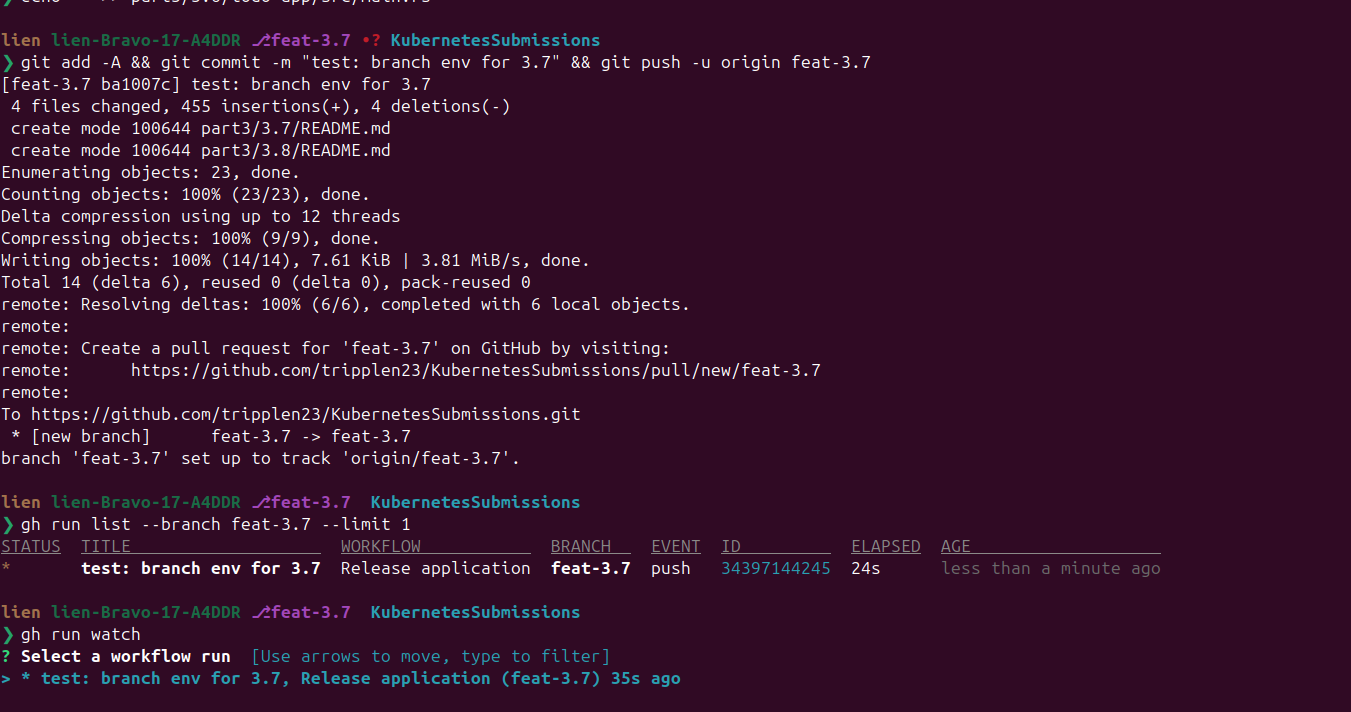
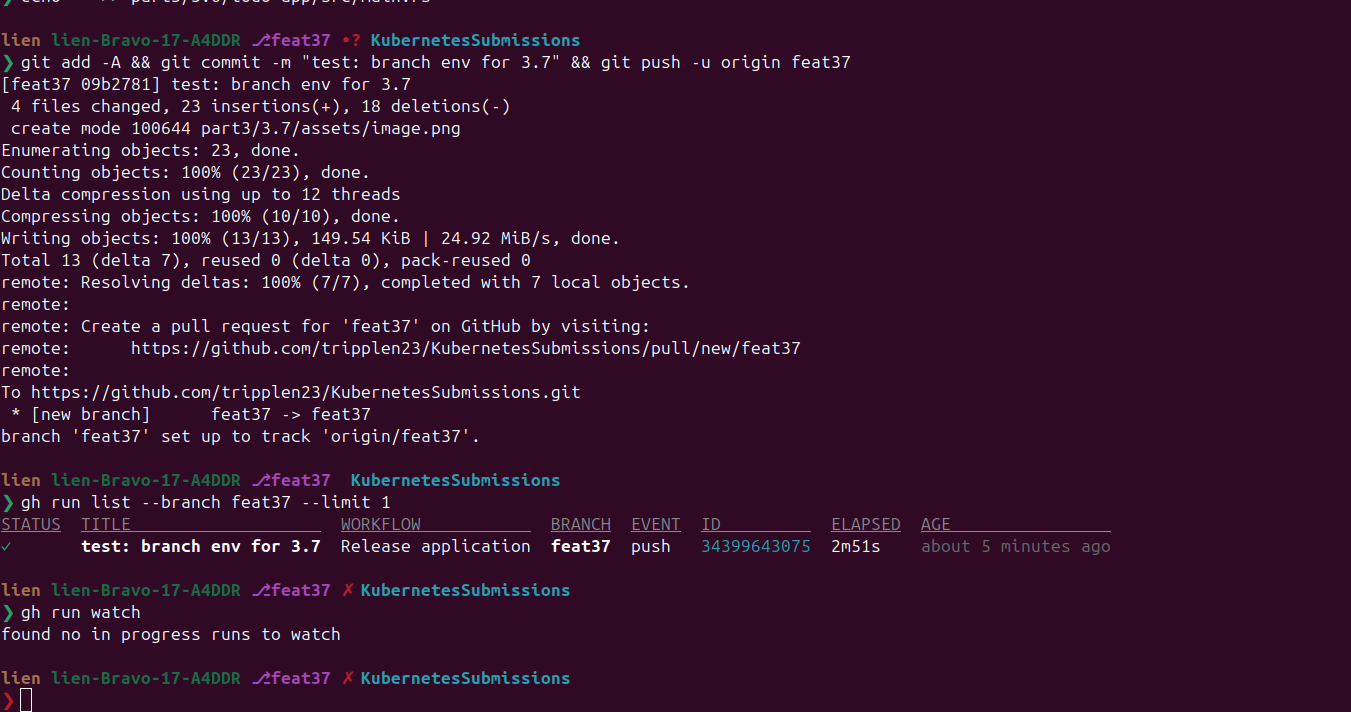
docs(3.7): final README trim, screenshot + root README 3.7 row

Changed region(s): [[0.0, 0.0927, 0.8705, 1.0], [0.2176, 0.0309, 0.4352, 0.0618], [0.6218, 0.0618, 0.6528, 0.0927]]

diff --git a/README.md b/README.md
@@ -47,7 +47,8 @@ Submissions for the University of Helsinki's **DevOps with Kubernetes** MOOC
 | [`part3/3.3/`](./part3/3.3) | 3.3 — To the Gateway (GKE) | "Log output" + "Ping-pong" via Gateway (Gateway + HTTPRoute, ClusterIP services) | `gcr.io/dwk-gke-506208/ping-pong:3.3`, `gcr.io/dwk-gke-506208/log-output:3.3` | [tag `3.3`](https://github.com/tripplen23/KubernetesSubmissions/tree/3.3/part3/3.3) |
 | [`part3/3.4/`](./part3/3.4) | 3.4 — Rewritten routing (GKE Gateway API) | "Log output" + "Ping-pong" via rewritten Gateway routing | `gcr.io/dwk-gke-506208/ping-pong:3.4`, `gcr.io/dwk-gke-506208/log-output:3.4` | [tag `3.4`](https://github.com/tripplen23/KubernetesSubmissions/tree/3.4/part3/3.4) |
 | [`part3/3.5/`](./part3/3.5) | 3.5 — The project, step 14 (Kustomize + GKE) | `todo-app` + `todo-backend` + Postgres + CronJob deployed to GKE with Kustomize | `gcr.io/dwk-gke-506208/todo-app:3.5`, `todo-backend:3.5`, `todo-cron:3.5`, `postgres:16` | [tag `3.5`](https://github.com/tripplen23/KubernetesSubmissions/tree/3.5/part3/3.5) |
-| [`part3/3.6/`](./part3/3.6) | 3.6 — The project, step 15: Deployment pipeline (GitHub Actions + OIDC) | full CI/CD: build → publish to Artifact Registry → deploy to GKE on every push | `europe-north1-docker.pkg.dev/dwk-gke-506208/my-repository/{todo-app,todo-backend,todo-cron}:<branch>-<sha>` | [main `part3/3.6`](https://github.com/tripplen23/KubernetesSubmissions/tree/main/part3/3.6) |
+| [`part3/3.6/`](./part3/3.6) | 3.6 — The project, step 15: Deployment pipeline (GitHub Actions + OIDC) | full CI/CD: build → publish to Artifact Registry → deploy to GKE on every push | `europe-north1-docker.pkg.dev/dwk-gke-506208/my-repository/{todo-app,todo-backend,todo-cron}:<branch>-<sha>` | [tag `3.6`](https://github.com/tripplen23/KubernetesSubmissions/tree/3.6/part3/3.6) |
+| [`part3/3.7/`](./part3/3.7) | 3.7 — The project, step 16: separate environment for each branch | pipeline deploys each git branch to a namespace named after the branch (`main` keeps `project`) | `europe-north1-docker.pkg.dev/dwk-gke-506208/my-repository/{todo-app,todo-backend,todo-cron}:feat37-<sha>` | [tag `3.7`](https://github.com/tripplen23/KubernetesSubmissions/tree/3.7/part3/3.7) |
 
 ## Prerequisites
 

diff --git a/part3/3.7/README.md b/part3/3.7/README.md
@@ -247,16 +247,3 @@ gcloud compute disks list --project=dwk-gke-506208   # any pvc-* → delete them
 > KEEP the WIF chain (workload identity pool `github-pool`, SA
 > `github-actions-sa`, the 3 GitHub secrets) — **3.8 reuses every bit of
 > it.** Only clean it after 3.8.
-
----
-
-## Common errors (quick table)
-
-| Symptom | Cause | Fix |
-|---|---|---|
-| deploy fails at `kustomize edit set namespace` | ran outside the `manifests` dir | the `cd part3/3.6/manifests` must run before all `kustomize edit ...` |
-| `The Namespace "feat-3.7" is invalid: ... must not contain dots` | branch name contains a **dot** — Kubernetes namespace names can't have dots (hit with `feat-3.7`!) | rename the branch to a dot-free name: `git branch -m feat-3.7 feat37` then push; the namespace (and verify commands) then use `feat37` |
-| everything lands in the `default` namespace | namespace override missing → kustomize kept the manifests' hardcoded `project` or empty | ensure `kustomize edit set namespace "$NAMESPACE"` is in the step (verified: field overrides the manifests) |
-| postgres pod ImagePullBackOff in a branch env | `gcr.io/.../postgres:16` was deleted in cleanup | re-run the `docker tag/push` from Step 1 |
-| `AlreadyExists` namespace | branch created twice / is `main` | `\|\| true` after `kubectl create` (already in the script) |
-| a push to `main` deploys the same as `project` | expected | that's the requirement: main → `project` |
